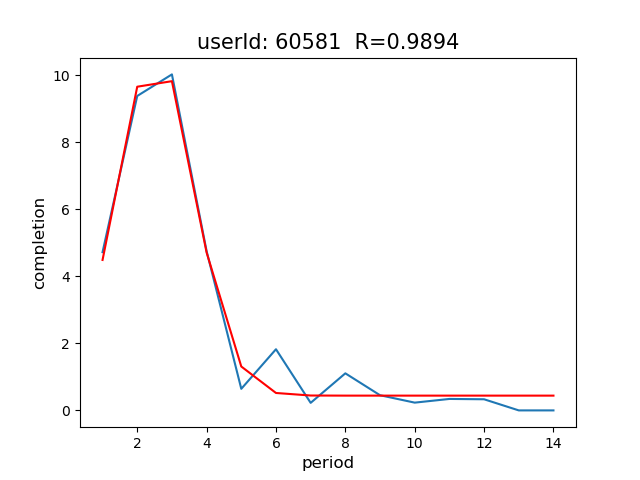
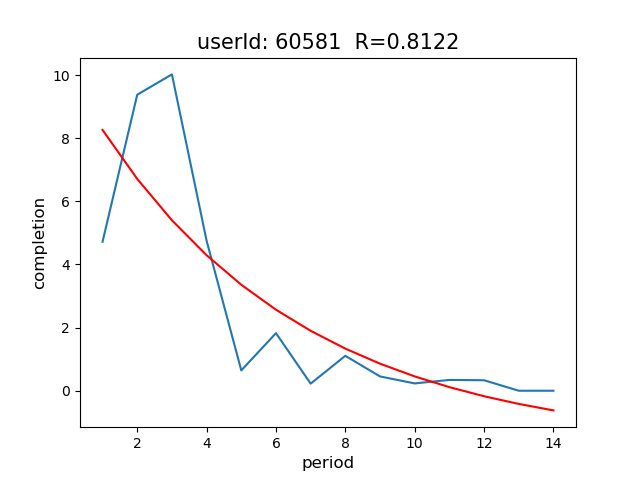
曲线拟合修改部分拟合函数，添加图包和json

diff --git a/PYTHON/个人进度作图.py b/PYTHON/个人进度作图.py
@@ -37,14 +37,14 @@ def func2(x, a, b, c):
     return a * np.power(x, b) + c
 
 
-# 对数函数
+# 对数函数 x
 def func3(x, a, b, c):
     return a * np.log(x, b) + c
 
 
-# S型函数 ?
-def func4(x, a, b, c):
-    return 1 / (a + b * np.power(np.e, -x)) + c
+# S型函数 x
+def func4(x, a, b, c,d):
+    return d / (a + b * np.power(np.e, -x)) + c
 
 
 # sin
@@ -83,15 +83,29 @@ if __name__ == '__main__':
     }
 
     # 用于拟合的函数
-    func_list = [func1, func3, func5, func6, func7]
+    func_list = [func1,func5, func6, func7]
+    type_list = ["高斯函数", "正弦函数", "上升指数函数", "下降指数函数", "反比例函数", "一次增函数", "一次减函数", "U型二次函数",
+                 "n型二次函数"]
+
+    trend_type= {
+        "高斯函数":"上升-下降-上升",
+        "正弦函数":"波动",
+        "上升指数函数":"上升",
+        "下降指数函数":"下降",
+        "反比例函数":"下降",
+        "一次增函数":"上升",
+        "一次减函数":"下降",
+        "U型二次函数":"下降-上升-下降",
+        "n型二次函数":"上升-下降-上升"
+    }
+
+    f = open('personal_progress_data.json', encoding='utf-8')
+    res = f.read()
+    user_data = json.loads(res)
+
+
 
     for user_id in range(46):  # 输入要查看的userId
-
-        type_list = ["高斯函数", "对数函数", "正弦函数", "上升指数函数", "下降指数函数", "反比例函数", "一次增函数", "一次减函数", "U型二次函数", "n型二次函数"]
-
-        f = open('personal_progress_data.json', encoding='utf-8')
-        res = f.read()
-        user_data = json.loads(res)
 
         # 选择拟合函数
         min_error_val = None
@@ -99,7 +113,7 @@ if __name__ == '__main__':
         y_fit_val = []
         x_fit_val = []
         fit_dataC = []
-        fit_popt=[]
+        fit_popt = []
 
         # 拟合曲线类型
         # 三次函数形状问题？找拐点
@@ -163,26 +177,26 @@ if __name__ == '__main__':
                     # 判断是否为最佳拟合
                     if min_error_val is None or er_val < min_error_val:
                         if type == 0:  # 高斯函数期望要求
-                            if popt[1] <= 2 or popt[1] >= len(x):
+                            if popt[1] <= len(x)*0.25 or popt[1] >= len(x)*0.8:
                                 type += 1
                                 continue
-                        if type == 2:  # sin周期要求
+                        if type == 1:  # sin周期要求
                             T = np.abs(2 * np.pi / popt[1])
-                            if len(x) <= 1.5 * T:
+                            if len(x) <= 2.5 * T:
                                 type += 1
                                 continue
                         min_error_val = er_val
                         fit_type = type
-                        if type == 3:  # 指数函数趋势判断
+                        if type == 2:  # 指数函数趋势判断
                             if popt[1] < 1: fit_type += 1
                         y_fit_val = yvals
                         x_fit_val = x
                         fit_dataC = dataC
-                        fit_popt=popt
+                        fit_popt = popt
                         fit_period_length = set_period_length
                 except:
                     pass
-                if type == 3:
+                if type == 2:
                     type += 2
                 else:
                     type += 1
@@ -199,14 +213,14 @@ if __name__ == '__main__':
                         a = res["系数"][0]
                         b = res["系数"][1]
                         T = -b / (2 * a)  # 求出拐点，若拐点不在图像显示区间内则抛弃
-                        if T <= 2 or len(x) * 0.9 <= T:
+                        if T <= 2 or len(x) * 0.8 <= T:
                             type += 2
                             continue
                     min_error_val = er_val
                     y_fit_val = yvals
                     x_fit_val = x
                     fit_dataC = dataC
-                    fit_popt=res["系数"]
+                    fit_popt = res["系数"]
                     fit_period_length = set_period_length
                     if res["系数"][0] > 0:
                         fit_type = type
@@ -230,13 +244,17 @@ if __name__ == '__main__':
         plt.xlabel("period", fontsize=12)
         plt.ylabel("completion", fontsize=12)
         plt.tick_params(axis='both', labelsize=10)
-    #    plt.savefig('D:/bigcode/master/pics/最匹配拟合图/' + user['user_id'] + '.png')  # 保存图片
+        plt.savefig('D:/bigcode/master/pics/最匹配拟合图/' + user['user_id'] + '.png')  # 保存图片
         plt.show()
 
-        dic[user['user_id']]={
-            "拟合类型":fit_type,
-            "拟合函数":type_list[fit_type],
-            "相关系数R":1 - min_error_val
+        dic[user['user_id']] = {
+            "拟合类型": fit_type,
+            "拟合函数": type_list[fit_type],
+            "趋势":trend_type[ type_list[fit_type]],
+            "相关系数R": 1 - min_error_val
         }
-    # with open('D:/bigcode/master/JSON/得分趋势拟合信息.json', 'a', encoding='utf8') as fp1:
-    #     json.dump(dic, fp1, ensure_ascii=False)
+        if 1-min_error_val<0.65:
+            dic[user['user_id']]["趋势"]="波动"
+
+    with open('D:/bigcode/master/JSON/得分趋势拟合信息.json', 'a', encoding='utf8') as fp1:
+        json.dump(dic, fp1, ensure_ascii=False)
